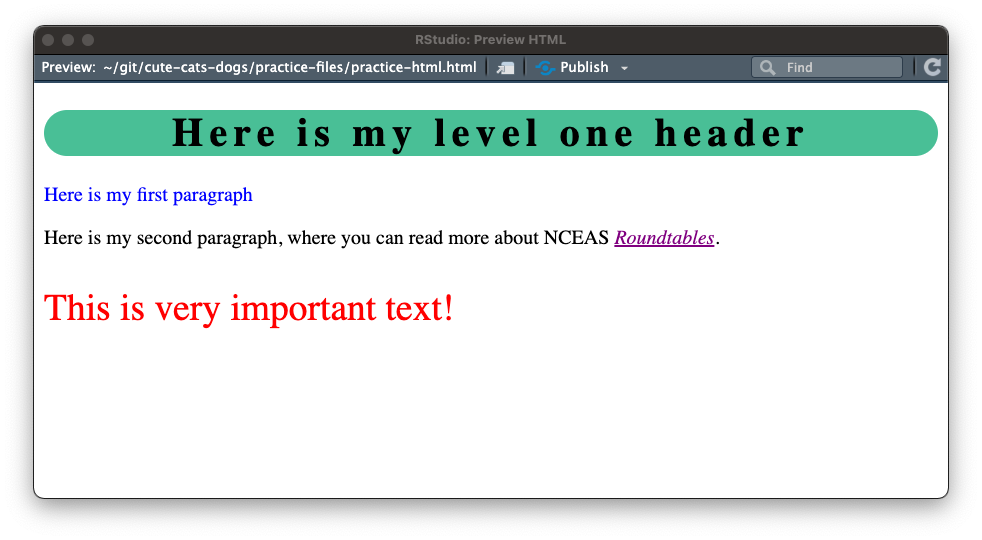
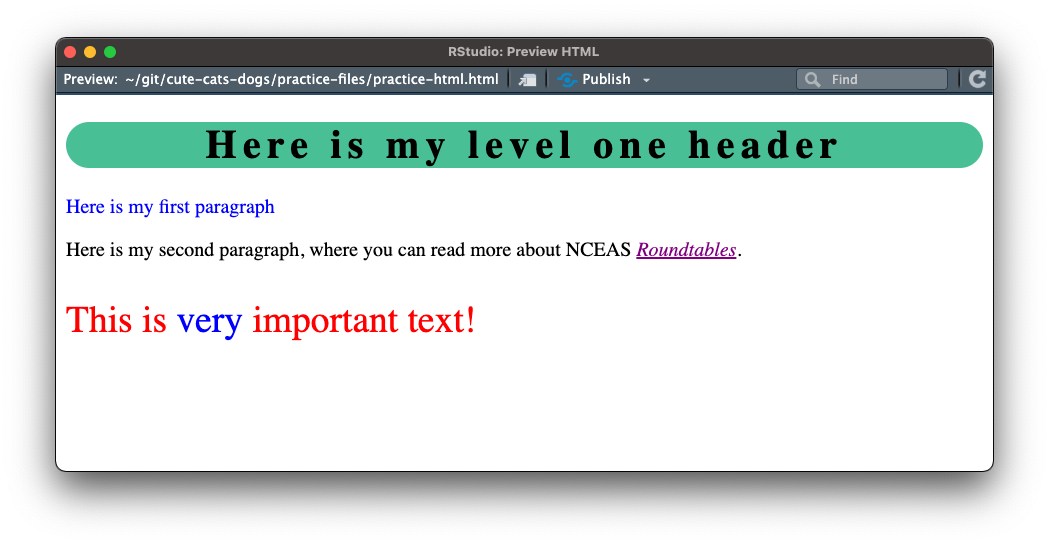
break point

Changed region(s): [[0.0305, 0.0296, 0.9776, 0.9481]]

diff --git a/index.html b/index.html
@@ -844,6 +844,7 @@
 <span id="cb3-3"><a href="#cb3-3"></a>  <span class="kw">letter-spacing</span>: <span class="dv">5</span><span class="dt">px</span><span class="op">;</span></span>
 <span id="cb3-4"><a href="#cb3-4"></a>}</span></code><button title="Copy to Clipboard" class="code-copy-button"><i class="bi"></i></button></pre></div>
 </div>
+<p><br></p>
 <p><strong>HTML</strong></p>
 <div class="cell">
 <div class="sourceCode cell-code" id="cb4"><pre class="sourceCode numberSource html number-lines code-with-copy"><code class="sourceCode html"><span id="cb4-1"><a href="#cb4-1"></a><span class="kw">&lt;h1&gt;</span>My level one header will be styled<span class="kw">&lt;/h1&gt;</span></span>
@@ -880,6 +881,7 @@
 <span id="cb5-3"><a href="#cb5-3"></a>  <span class="kw">color</span>: <span class="cn">purple</span><span class="op">;</span></span>
 <span id="cb5-4"><a href="#cb5-4"></a>}</span></code><button title="Copy to Clipboard" class="code-copy-button"><i class="bi"></i></button></pre></div>
 </div>
+<p><br></p>
 <p><strong>HTML</strong></p>
 <div class="cell">
 <div class="sourceCode cell-code" id="cb6"><pre class="sourceCode numberSource html number-lines code-with-copy"><code class="sourceCode html"><span id="cb6-1"><a href="#cb6-1"></a><span class="kw">&lt;h1&gt;</span>My level one header will be styled<span class="kw">&lt;/h1&gt;</span></span>
@@ -920,6 +922,7 @@
 <span id="cb7-3"><a href="#cb7-3"></a>  <span class="kw">font-style</span>: <span class="dv">italic</span><span class="op">;</span></span>
 <span id="cb7-4"><a href="#cb7-4"></a>}</span></code><button title="Copy to Clipboard" class="code-copy-button"><i class="bi"></i></button></pre></div>
 </div>
+<p><br></p>
 <p><strong>HTML</strong></p>
 <div class="cell">
 <div class="sourceCode cell-code" id="cb8"><pre class="sourceCode numberSource html number-lines code-with-copy"><code class="sourceCode html"><span id="cb8-1"><a href="#cb8-1"></a><span class="kw">&lt;p</span> <span class="er">class</span><span class="ot">=</span><span class="st">"blue-italicized"</span><span class="kw">&gt;</span>My first paragraph is styled<span class="kw">&lt;/p&gt;</span></span>
@@ -956,6 +959,7 @@
 <span id="cb9-3"><a href="#cb9-3"></a>  <span class="kw">font-style</span>: <span class="dv">italic</span><span class="op">;</span></span>
 <span id="cb9-4"><a href="#cb9-4"></a>}</span></code><button title="Copy to Clipboard" class="code-copy-button"><i class="bi"></i></button></pre></div>
 </div>
+<p><br></p>
 <p><strong>HTML</strong></p>
 <div class="cell">
 <div class="sourceCode cell-code" id="cb10"><pre class="sourceCode numberSource html number-lines code-with-copy"><code class="sourceCode html"><span id="cb10-1"><a href="#cb10-1"></a><span class="kw">&lt;p&gt;</span>Only the word <span class="kw">&lt;span</span> <span class="er">class</span><span class="ot">=</span><span class="st">"blue-italicized"</span><span class="kw">&gt;</span>blue<span class="kw">&lt;/span&gt;</span> is styled.<span class="kw">&lt;/p&gt;</span></span></code><button title="Copy to Clipboard" class="code-copy-button"><i class="bi"></i></button></pre></div>
@@ -976,16 +980,50 @@
 </div>
 </div>
 </section><section id="conflicting-rules" class="slide level2" data-menu-title="Conflicting Rules"><h2></h2>
-<p><span class="slide-title">CSS rules can conflict – the more specific rule “wins”</span></p>
+<p><span class="slide-title-smallest">Conflicting rules? The more specific rule wins</span></p>
 <hr>
-<p>It is common to have more than one CSS rule that points to the same element. As you build more complex stylesheets, determining which CSS rule “wins out” can get complicated. At a very basic level, the more specific CSS “wins”.</p>
-<p>In the context of today’s talk, class selectors are more specific than element selectors and will take precedence.</p>
-<p>EXAMPLE HERE</p>
+<div class="body-text">
+<p>It is common to have more than one CSS rule that points to the same element. As you build more complex stylesheets, determining which CSS rule “wins out” can get complicated. At a very basic level, the more specific CSS “wins”. In the context of today’s talk, <strong>class selectors are more specific than element selectors</strong> and will take precedence.</p>
+</div>
+<div class="columns">
+<div class="column" style="width:50%;">
+<p><strong>CSS</strong></p>
+<div class="cell">
+<div class="sourceCode cell-code" id="cb11"><pre class="sourceCode numberSource css number-lines code-with-copy"><code class="sourceCode css"><span id="cb11-1"><a href="#cb11-1"></a>h1 {</span>
+<span id="cb11-2"><a href="#cb11-2"></a>  <span class="kw">color</span>: <span class="cn">blue</span><span class="op">;</span> </span>
+<span id="cb11-3"><a href="#cb11-3"></a>  <span class="kw">font-style</span>: <span class="dv">italic</span><span class="op">;</span> </span>
+<span id="cb11-4"><a href="#cb11-4"></a>}</span>
+<span id="cb11-5"><a href="#cb11-5"></a></span>
+<span id="cb11-6"><a href="#cb11-6"></a><span class="fu">.orange-text</span> {</span>
+<span id="cb11-7"><a href="#cb11-7"></a>  <span class="kw">color</span>: <span class="cn">orange</span><span class="op">;</span></span>
+<span id="cb11-8"><a href="#cb11-8"></a>}</span></code><button title="Copy to Clipboard" class="code-copy-button"><i class="bi"></i></button></pre></div>
+</div>
+<p><br></p>
+<p><strong>HTML</strong></p>
+<div class="cell">
+<div class="sourceCode cell-code" id="cb12"><pre class="sourceCode numberSource html number-lines code-with-copy"><code class="sourceCode html"><span id="cb12-1"><a href="#cb12-1"></a><span class="kw">&lt;h1&gt;</span>This level one header will be blue<span class="kw">&lt;/h1&gt;</span></span>
+<span id="cb12-2"><a href="#cb12-2"></a><span class="kw">&lt;h1</span> <span class="er">class</span><span class="ot">=</span><span class="st">"orange-text"</span><span class="kw">&gt;</span>This one will be orange<span class="kw">&lt;/h1&gt;</span></span></code><button title="Copy to Clipboard" class="code-copy-button"><i class="bi"></i></button></pre></div>
+</div>
+</div><div class="column" style="width:50%;">
+<p><br><br></p>
+<div class="center-text">
+<p><strong>Output</strong></p>
+</div>
+<div class="cell" data-layout-align="center">
+<div class="cell-output-display">
+<div class="quarto-figure quarto-figure-center">
+<figure><p><img data-src="images/specificity.png" style="width:85.0%"></p>
+</figure>
+</div>
+</div>
+</div>
+</div>
+</div>
 </section><section id="write-css" class="slide level2" data-menu-title="Write CSS"><h2></h2>
 <p><span class="slide-title-smaller">Practice writing element &amp; class selectors</span></p>
 <hr>
 <div class="body-text center-text">
-<p>Here, we apply our <code>practice-styles.css</code> stylesheet to <code>practice-html.html</code>.</p>
+<p>Let’s write some CSS and apply our <code>practice-styles.css</code> stylesheet to <code>practice-html.html</code>.</p>
 </div>
 <div class="panel-tabset">
 <ul id="tabset-4" class="panel-tabset-tabby">
@@ -996,34 +1034,34 @@
 <div class="tab-content">
 <div id="tabset-4-1">
 <div class="cell">
-<div class="sourceCode cell-code" id="cb11"><pre class="sourceCode numberSource css number-lines code-with-copy"><code class="sourceCode css"><span id="cb11-1"><a href="#cb11-1"></a><span class="co">/* ------- element selectors ------- */</span></span>
-<span id="cb11-2"><a href="#cb11-2"></a></span>
-<span id="cb11-3"><a href="#cb11-3"></a><span class="co">/* style level one headers */</span></span>
-<span id="cb11-4"><a href="#cb11-4"></a>h1 {</span>
-<span id="cb11-5"><a href="#cb11-5"></a>  <span class="kw">background-color</span>: <span class="cn">#49bf96</span><span class="op">;</span></span>
-<span id="cb11-6"><a href="#cb11-6"></a>  <span class="kw">border-radius</span>: <span class="dv">25</span><span class="dt">px</span><span class="op">;</span></span>
-<span id="cb11-7"><a href="#cb11-7"></a>  <span class="kw">letter-spacing</span>: <span class="dv">5</span><span class="dt">px</span><span class="op">;</span></span>
-<span id="cb11-8"><a href="#cb11-8"></a>  <span class="kw">text-align</span>: <span class="dv">center</span><span class="op">;</span></span>
-<span id="cb11-9"><a href="#cb11-9"></a>}</span>
-<span id="cb11-10"><a href="#cb11-10"></a></span>
-<span id="cb11-11"><a href="#cb11-11"></a><span class="co">/* purple italicized hyperlinks */</span></span>
-<span id="cb11-12"><a href="#cb11-12"></a>a {</span>
-<span id="cb11-13"><a href="#cb11-13"></a>  <span class="kw">color</span>: <span class="cn">purple</span><span class="op">;</span></span>
-<span id="cb11-14"><a href="#cb11-14"></a>  <span class="kw">font-style</span>: <span class="dv">italic</span><span class="op">;</span></span>
-<span id="cb11-15"><a href="#cb11-15"></a>}</span>
-<span id="cb11-16"><a href="#cb11-16"></a></span>
-<span id="cb11-17"><a href="#cb11-17"></a><span class="co">/* ------- class selectors ------- */</span></span>
-<span id="cb11-18"><a href="#cb11-18"></a></span>
-<span id="cb11-19"><a href="#cb11-19"></a><span class="co">/* blue text */</span></span>
-<span id="cb11-20"><a href="#cb11-20"></a><span class="fu">.blue-text</span> {</span>
-<span id="cb11-21"><a href="#cb11-21"></a>  <span class="kw">color</span>: <span class="cn">blue</span><span class="op">;</span></span>
-<span id="cb11-22"><a href="#cb11-22"></a>}</span>
-<span id="cb11-23"><a href="#cb11-23"></a></span>
-<span id="cb11-24"><a href="#cb11-24"></a><span class="co">/* large red text */</span></span>
-<span id="cb11-25"><a href="#cb11-25"></a><span class="fu">.important-text</span>{</span>
-<span id="cb11-26"><a href="#cb11-26"></a>  <span class="kw">color</span>: <span class="cn">red</span><span class="op">;</span></span>
-<span id="cb11-27"><a href="#cb11-27"></a>  <span class="kw">font-size</span>: <span class="dv">30</span><span class="dt">px</span><span class="op">;</span></span>
-<span id="cb11-28"><a href="#cb11-28"></a>}</span></code><button title="Copy to Clipboard" class="code-copy-button"><i class="bi"></i></button></pre></div>
+<div class="sourceCode cell-code" id="cb13"><pre class="sourceCode numberSource css number-lines code-with-copy"><code class="sourceCode css"><span id="cb13-1"><a href="#cb13-1"></a><span class="co">/* ------- element selectors ------- */</span></span>
+<span id="cb13-2"><a href="#cb13-2"></a></span>
+<span id="cb13-3"><a href="#cb13-3"></a><span class="co">/* style level one headers */</span></span>
+<span id="cb13-4"><a href="#cb13-4"></a>h1 {</span>
+<span id="cb13-5"><a href="#cb13-5"></a>  <span class="kw">background-color</span>: <span class="cn">#49bf96</span><span class="op">;</span></span>
+<span id="cb13-6"><a href="#cb13-6"></a>  <span class="kw">border-radius</span>: <span class="dv">25</span><span class="dt">px</span><span class="op">;</span></span>
+<span id="cb13-7"><a href="#cb13-7"></a>  <span class="kw">letter-spacing</span>: <span class="dv">5</span><span class="dt">px</span><span class="op">;</span></span>
+<span id="cb13-8"><a href="#cb13-8"></a>  <span class="kw">text-align</span>: <span class="dv">center</span><span class="op">;</span></span>
+<span id="cb13-9"><a href="#cb13-9"></a>}</span>
+<span id="cb13-10"><a href="#cb13-10"></a></span>
+<span id="cb13-11"><a href="#cb13-11"></a><span class="co">/* purple italicized hyperlinks */</span></span>
+<span id="cb13-12"><a href="#cb13-12"></a>a {</span>
+<span id="cb13-13"><a href="#cb13-13"></a>  <span class="kw">color</span>: <span class="cn">purple</span><span class="op">;</span></span>
+<span id="cb13-14"><a href="#cb13-14"></a>  <span class="kw">font-style</span>: <span class="dv">italic</span><span class="op">;</span></span>
+<span id="cb13-15"><a href="#cb13-15"></a>}</span>
+<span id="cb13-16"><a href="#cb13-16"></a></span>
+<span id="cb13-17"><a href="#cb13-17"></a><span class="co">/* ------- class selectors ------- */</span></span>
+<span id="cb13-18"><a href="#cb13-18"></a></span>
+<span id="cb13-19"><a href="#cb13-19"></a><span class="co">/* blue text */</span></span>
+<span id="cb13-20"><a href="#cb13-20"></a><span class="fu">.blue-text</span> {</span>
+<span id="cb13-21"><a href="#cb13-21"></a>  <span class="kw">color</span>: <span class="cn">blue</span><span class="op">;</span></span>
+<span id="cb13-22"><a href="#cb13-22"></a>}</span>
+<span id="cb13-23"><a href="#cb13-23"></a></span>
+<span id="cb13-24"><a href="#cb13-24"></a><span class="co">/* large red text */</span></span>
+<span id="cb13-25"><a href="#cb13-25"></a><span class="fu">.important-text</span>{</span>
+<span id="cb13-26"><a href="#cb13-26"></a>  <span class="kw">color</span>: <span class="cn">red</span><span class="op">;</span></span>
+<span id="cb13-27"><a href="#cb13-27"></a>  <span class="kw">font-size</span>: <span class="dv">30</span><span class="dt">px</span><span class="op">;</span></span>
+<span id="cb13-28"><a href="#cb13-28"></a>}</span></code><button title="Copy to Clipboard" class="code-copy-button"><i class="bi"></i></button></pre></div>
 </div>
 </div>
 <div id="tabset-4-2">
@@ -1032,20 +1070,20 @@
 <p><code>&lt;html-tag class="class-selector"&gt;Content&lt;/html-tag&gt;</code></p>
 </div>
 <div class="cell">
-<div class="sourceCode cell-code" id="cb12" data-code-line-numbers="5 | 10-12"><pre class="sourceCode numberSource html number-lines code-with-copy"><code class="sourceCode html"><span id="cb12-1"><a href="#cb12-1"></a><span class="dt">&lt;!DOCTYPE </span>html<span class="dt">&gt;</span> <span class="co">&lt;!-- All HTML docs start with a doc type declaration--&gt;</span></span>
-<span id="cb12-2"><a href="#cb12-2"></a><span class="kw">&lt;html&gt;</span> <span class="co">&lt;!-- This tag represents the root of the HTML doc --&gt;</span></span>
-<span id="cb12-3"><a href="#cb12-3"></a><span class="kw">&lt;head&gt;</span></span>
-<span id="cb12-4"><a href="#cb12-4"></a> <span class="co">&lt;!-- Write any metadata about the HTML doc here (inluding the link to an external CSS file) --&gt;</span></span>
-<span id="cb12-5"><a href="#cb12-5"></a> <span class="kw">&lt;link</span> <span class="er">rel</span><span class="ot">=</span><span class="st">"stylesheet"</span> <span class="er">href</span><span class="ot">=</span><span class="st">"practice-styles-KEY.css"</span><span class="kw">&gt;</span></span>
-<span id="cb12-6"><a href="#cb12-6"></a><span class="kw">&lt;/head&gt;</span></span>
-<span id="cb12-7"><a href="#cb12-7"></a><span class="kw">&lt;body&gt;</span> </span>
-<span id="cb12-8"><a href="#cb12-8"></a>  <span class="co">&lt;!-- Write all the contents of the HTML doc here --&gt;</span></span>
-<span id="cb12-9"><a href="#cb12-9"></a>  <span class="kw">&lt;h1&gt;</span>Here is my level one header<span class="kw">&lt;/h1&gt;</span></span>
-<span id="cb12-10"><a href="#cb12-10"></a>  <span class="kw">&lt;p</span> <span class="er">class</span><span class="ot">=</span><span class="st">"blue-text"</span><span class="kw">&gt;</span>Here is my first paragraph<span class="kw">&lt;/p&gt;</span></span>
-<span id="cb12-11"><a href="#cb12-11"></a>  <span class="kw">&lt;p&gt;</span>Here is my second paragraph, where you can read more about NCEAS <span class="kw">&lt;a</span> <span class="er">href</span><span class="ot">=</span><span class="st">"https://www.nceas.ucsb.edu/roundtable"</span><span class="kw">&gt;</span>Roundtables<span class="kw">&lt;/a&gt;</span>.<span class="kw">&lt;/p&gt;</span></span>
-<span id="cb12-12"><a href="#cb12-12"></a>  <span class="kw">&lt;p</span> <span class="er">class</span><span class="ot">=</span><span class="st">"important-text"</span><span class="kw">&gt;</span>This is very important text!<span class="kw">&lt;/p&gt;</span></span>
-<span id="cb12-13"><a href="#cb12-13"></a><span class="kw">&lt;/body&gt;</span></span>
-<span id="cb12-14"><a href="#cb12-14"></a><span class="kw">&lt;/html&gt;</span></span></code><button title="Copy to Clipboard" class="code-copy-button"><i class="bi"></i></button></pre></div>
+<div class="sourceCode cell-code" id="cb14" data-code-line-numbers="5 | 10-12"><pre class="sourceCode numberSource html number-lines code-with-copy"><code class="sourceCode html"><span id="cb14-1"><a href="#cb14-1"></a><span class="dt">&lt;!DOCTYPE </span>html<span class="dt">&gt;</span> <span class="co">&lt;!-- All HTML docs start with a doc type declaration--&gt;</span></span>
+<span id="cb14-2"><a href="#cb14-2"></a><span class="kw">&lt;html&gt;</span> <span class="co">&lt;!-- This tag represents the root of the HTML doc --&gt;</span></span>
+<span id="cb14-3"><a href="#cb14-3"></a><span class="kw">&lt;head&gt;</span></span>
+<span id="cb14-4"><a href="#cb14-4"></a> <span class="co">&lt;!-- Write any metadata about the HTML doc here (inluding the link to an external CSS file) --&gt;</span></span>
+<span id="cb14-5"><a href="#cb14-5"></a> <span class="kw">&lt;link</span> <span class="er">rel</span><span class="ot">=</span><span class="st">"stylesheet"</span> <span class="er">href</span><span class="ot">=</span><span class="st">"practice-styles-KEY.css"</span><span class="kw">&gt;</span></span>
+<span id="cb14-6"><a href="#cb14-6"></a><span class="kw">&lt;/head&gt;</span></span>
+<span id="cb14-7"><a href="#cb14-7"></a><span class="kw">&lt;body&gt;</span> </span>
+<span id="cb14-8"><a href="#cb14-8"></a>  <span class="co">&lt;!-- Write all the contents of the HTML doc here --&gt;</span></span>
+<span id="cb14-9"><a href="#cb14-9"></a>  <span class="kw">&lt;h1&gt;</span>Here is my level one header<span class="kw">&lt;/h1&gt;</span></span>
+<span id="cb14-10"><a href="#cb14-10"></a>  <span class="kw">&lt;p</span> <span class="er">class</span><span class="ot">=</span><span class="st">"blue-text"</span><span class="kw">&gt;</span>Here is my first paragraph<span class="kw">&lt;/p&gt;</span></span>
+<span id="cb14-11"><a href="#cb14-11"></a>  <span class="kw">&lt;p&gt;</span>Here is my second paragraph, where you can read more about NCEAS <span class="kw">&lt;a</span> <span class="er">href</span><span class="ot">=</span><span class="st">"https://www.nceas.ucsb.edu/roundtable"</span><span class="kw">&gt;</span>Roundtables<span class="kw">&lt;/a&gt;</span>.<span class="kw">&lt;/p&gt;</span></span>
+<span id="cb14-12"><a href="#cb14-12"></a>  <span class="kw">&lt;p</span> <span class="er">class</span><span class="ot">=</span><span class="st">"important-text"</span><span class="kw">&gt;</span>This is <span class="kw">&lt;span</span> <span class="er">class</span><span class="ot">=</span><span class="st">"blue-text"</span><span class="kw">&gt;</span>very<span class="kw">&lt;/span&gt;</span> important text!<span class="kw">&lt;/p&gt;</span></span>
+<span id="cb14-13"><a href="#cb14-13"></a><span class="kw">&lt;/body&gt;</span></span>
+<span id="cb14-14"><a href="#cb14-14"></a><span class="kw">&lt;/html&gt;</span></span></code><button title="Copy to Clipboard" class="code-copy-button"><i class="bi"></i></button></pre></div>
 </div>
 </div>
 <div id="tabset-4-3">
@@ -1075,67 +1113,67 @@
 <p><strong>Note</strong> the required <code>/*-- scss:rules --*/</code> section header, which has been added at the top of the file</p>
 </div>
 <div class="cell">
-<div class="sourceCode cell-code" id="cb13"><pre class="sourceCode numberSource css number-lines code-with-copy"><code class="sourceCode css"><span id="cb13-1"><a href="#cb13-1"></a><span class="co">/*-- scss:rules --*/</span></span>
-<span id="cb13-2"><a href="#cb13-2"></a></span>
-<span id="cb13-3"><a href="#cb13-3"></a><span class="co">/* ------- element selectors ------- */</span></span>
-<span id="cb13-4"><a href="#cb13-4"></a></span>
-<span id="cb13-5"><a href="#cb13-5"></a><span class="co">/* style level one headers */</span></span>
-<span id="cb13-6"><a href="#cb13-6"></a>h1 {</span>
-<span id="cb13-7"><a href="#cb13-7"></a>  <span class="kw">background-color</span>: <span class="cn">#49bf96</span><span class="op">;</span></span>
-<span id="cb13-8"><a href="#cb13-8"></a>  <span class="kw">border-radius</span>: <span class="dv">25</span><span class="dt">px</span><span class="op">;</span></span>
-<span id="cb13-9"><a href="#cb13-9"></a>  <span class="kw">letter-spacing</span>: <span class="dv">5</span><span class="dt">px</span><span class="op">;</span></span>
-<span id="cb13-10"><a href="#cb13-10"></a>  <span class="kw">text-align</span>: <span class="dv">center</span><span class="op">;</span></span>
-<span id="cb13-11"><a href="#cb13-11"></a>}</span>
-<span id="cb13-12"><a href="#cb13-12"></a></span>
-<span id="cb13-13"><a href="#cb13-13"></a><span class="co">/* purple italicized hyperlinks */</span></span>
-<span id="cb13-14"><a href="#cb13-14"></a>a {</span>
-<span id="cb13-15"><a href="#cb13-15"></a>  <span class="kw">color</span>: <span class="cn">purple</span><span class="op">;</span></span>
-<span id="cb13-16"><a href="#cb13-16"></a>  <span class="kw">font-style</span>: <span class="dv">italic</span><span class="op">;</span></span>
-<span id="cb13-17"><a href="#cb13-17"></a>}</span>
-<span id="cb13-18"><a href="#cb13-18"></a></span>
-<span id="cb13-19"><a href="#cb13-19"></a><span class="co">/* ------- class selectors ------- */</span></span>
-<span id="cb13-20"><a href="#cb13-20"></a></span>
-<span id="cb13-21"><a href="#cb13-21"></a><span class="co">/* blue text */</span></span>
-<span id="cb13-22"><a href="#cb13-22"></a><span class="fu">.blue-text</span> {</span>
-<span id="cb13-23"><a href="#cb13-23"></a>  <span class="kw">color</span>: <span class="cn">blue</span><span class="op">;</span></span>
-<span id="cb13-24"><a href="#cb13-24"></a>}</span>
-<span id="cb13-25"><a href="#cb13-25"></a></span>
-<span id="cb13-26"><a href="#cb13-26"></a><span class="co">/* large red text */</span></span>
-<span id="cb13-27"><a href="#cb13-27"></a><span class="fu">.important-text</span>{</span>
-<span id="cb13-28"><a href="#cb13-28"></a>  <span class="kw">color</span>: <span class="cn">red</span><span class="op">;</span></span>
-<span id="cb13-29"><a href="#cb13-29"></a>  <span class="kw">font-size</span>: <span class="dv">30</span><span class="dt">px</span><span class="op">;</span></span>
-<span id="cb13-30"><a href="#cb13-30"></a>}</span></code><button title="Copy to Clipboard" class="code-copy-button"><i class="bi"></i></button></pre></div>
+<div class="sourceCode cell-code" id="cb15"><pre class="sourceCode numberSource css number-lines code-with-copy"><code class="sourceCode css"><span id="cb15-1"><a href="#cb15-1"></a><span class="co">/*-- scss:rules --*/</span></span>
+<span id="cb15-2"><a href="#cb15-2"></a></span>
+<span id="cb15-3"><a href="#cb15-3"></a><span class="co">/* ------- element selectors ------- */</span></span>
+<span id="cb15-4"><a href="#cb15-4"></a></span>
+<span id="cb15-5"><a href="#cb15-5"></a><span class="co">/* style level one headers */</span></span>
+<span id="cb15-6"><a href="#cb15-6"></a>h1 {</span>
+<span id="cb15-7"><a href="#cb15-7"></a>  <span class="kw">background-color</span>: <span class="cn">#49bf96</span><span class="op">;</span></span>
+<span id="cb15-8"><a href="#cb15-8"></a>  <span class="kw">border-radius</span>: <span class="dv">25</span><span class="dt">px</span><span class="op">;</span></span>
+<span id="cb15-9"><a href="#cb15-9"></a>  <span class="kw">letter-spacing</span>: <span class="dv">5</span><span class="dt">px</span><span class="op">;</span></span>
+<span id="cb15-10"><a href="#cb15-10"></a>  <span class="kw">text-align</span>: <span class="dv">center</span><span class="op">;</span></span>
+<span id="cb15-11"><a href="#cb15-11"></a>}</span>
+<span id="cb15-12"><a href="#cb15-12"></a></span>
+<span id="cb15-13"><a href="#cb15-13"></a><span class="co">/* purple italicized hyperlinks */</span></span>
+<span id="cb15-14"><a href="#cb15-14"></a>a {</span>
+<span id="cb15-15"><a href="#cb15-15"></a>  <span class="kw">color</span>: <span class="cn">purple</span><span class="op">;</span></span>
+<span id="cb15-16"><a href="#cb15-16"></a>  <span class="kw">font-style</span>: <span class="dv">italic</span><span class="op">;</span></span>
+<span id="cb15-17"><a href="#cb15-17"></a>}</span>
+<span id="cb15-18"><a href="#cb15-18"></a></span>
+<span id="cb15-19"><a href="#cb15-19"></a><span class="co">/* ------- class selectors ------- */</span></span>
+<span id="cb15-20"><a href="#cb15-20"></a></span>
+<span id="cb15-21"><a href="#cb15-21"></a><span class="co">/* blue text */</span></span>
+<span id="cb15-22"><a href="#cb15-22"></a><span class="fu">.blue-text</span> {</span>
+<span id="cb15-23"><a href="#cb15-23"></a>  <span class="kw">color</span>: <span class="cn">blue</span><span class="op">;</span></span>
+<span id="cb15-24"><a href="#cb15-24"></a>}</span>
+<span id="cb15-25"><a href="#cb15-25"></a></span>
+<span id="cb15-26"><a href="#cb15-26"></a><span class="co">/* large red text */</span></span>
+<span id="cb15-27"><a href="#cb15-27"></a><span class="fu">.important-text</span>{</span>
+<span id="cb15-28"><a href="#cb15-28"></a>  <span class="kw">color</span>: <span class="cn">red</span><span class="op">;</span></span>
+<span id="cb15-29"><a href="#cb15-29"></a>  <span class="kw">font-size</span>: <span class="dv">30</span><span class="dt">px</span><span class="op">;</span></span>
+<span id="cb15-30"><a href="#cb15-30"></a>}</span></code><button title="Copy to Clipboard" class="code-copy-button"><i class="bi"></i></button></pre></div>
 </div>
 </div>
 <div id="tabset-5-2">
 <div class="body-text">
 <p>Below, we <strong>(a)</strong> call our stylesheet in the YAML metadata header using the <code>theme</code> option (line 2), and <strong>(b)</strong> use our class selectors to apply targeted styling (lines 7 &amp; 11).</p>
 </div>
-<div class="sourceCode" id="cb14"><pre class="sourceCode numberSource md number-lines code-with-copy"><code class="sourceCode markdown"><span id="cb14-1"><a href="#cb14-1"></a><span class="co">---</span></span>
-<span id="cb14-2"><a href="#cb14-2"></a><span class="an">theme:</span><span class="co"> practice-styles.css</span></span>
-<span id="cb14-3"><a href="#cb14-3"></a><span class="co">---</span></span>
-<span id="cb14-4"><a href="#cb14-4"></a></span>
-<span id="cb14-5"><a href="#cb14-5"></a><span class="fu"># Here is my level one header</span></span>
-<span id="cb14-6"><a href="#cb14-6"></a></span>
-<span id="cb14-7"><a href="#cb14-7"></a><span class="kw">&lt;p</span> <span class="er">class</span><span class="ot">=</span><span class="st">"blue-text"</span><span class="kw">&gt;</span>Here is my first paragraph<span class="kw">&lt;/p&gt;</span></span>
-<span id="cb14-8"><a href="#cb14-8"></a></span>
-<span id="cb14-9"><a href="#cb14-9"></a>Here is my second paragraph, where you can read more about NCEAS <span class="co">[</span><span class="ot">Roundtables</span><span class="co">](https://www.nceas.ucsb.edu/roundtable)</span>.</span>
-<span id="cb14-10"><a href="#cb14-10"></a></span>
-<span id="cb14-11"><a href="#cb14-11"></a><span class="kw">&lt;p</span> <span class="er">class</span><span class="ot">=</span><span class="st">"important-text"</span><span class="kw">&gt;</span>This is very important text!<span class="kw">&lt;/p&gt;</span></span></code><button title="Copy to Clipboard" class="code-copy-button"><i class="bi"></i></button></pre></div>
+<div class="sourceCode" id="cb16"><pre class="sourceCode numberSource md number-lines code-with-copy"><code class="sourceCode markdown"><span id="cb16-1"><a href="#cb16-1"></a><span class="co">---</span></span>
+<span id="cb16-2"><a href="#cb16-2"></a><span class="an">theme:</span><span class="co"> practice-styles.css</span></span>
+<span id="cb16-3"><a href="#cb16-3"></a><span class="co">---</span></span>
+<span id="cb16-4"><a href="#cb16-4"></a></span>
+<span id="cb16-5"><a href="#cb16-5"></a><span class="fu"># Here is my level one header</span></span>
+<span id="cb16-6"><a href="#cb16-6"></a></span>
+<span id="cb16-7"><a href="#cb16-7"></a><span class="kw">&lt;p</span> <span class="er">class</span><span class="ot">=</span><span class="st">"blue-text"</span><span class="kw">&gt;</span>Here is my first paragraph<span class="kw">&lt;/p&gt;</span></span>
+<span id="cb16-8"><a href="#cb16-8"></a></span>
+<span id="cb16-9"><a href="#cb16-9"></a>Here is my second paragraph, where you can read more about NCEAS <span class="co">[</span><span class="ot">Roundtables</span><span class="co">](https://www.nceas.ucsb.edu/roundtable)</span>.</span>
+<span id="cb16-10"><a href="#cb16-10"></a></span>
+<span id="cb16-11"><a href="#cb16-11"></a><span class="kw">&lt;p</span> <span class="er">class</span><span class="ot">=</span><span class="st">"important-text"</span><span class="kw">&gt;</span>This is <span class="kw">&lt;span</span> <span class="er">class</span><span class="ot">=</span><span class="st">"blue-text"</span><span class="kw">&gt;</span>very<span class="kw">&lt;/span&gt;</span> important text!<span class="kw">&lt;/p&gt;</span></span></code><button title="Copy to Clipboard" class="code-copy-button"><i class="bi"></i></button></pre></div>
 <div class="body-text">
 <p><strong>Note:</strong> Quarto also provides <a href="https://quarto.org/docs/authoring/markdown-basics.html#divs-and-spans">its own syntax</a> for applying classes to elements. For example:</p>
 </div>
-<div class="sourceCode" id="cb15"><pre class="sourceCode numberSource md number-lines code-with-copy"><code class="sourceCode markdown"><span id="cb15-1"><a href="#cb15-1"></a><span class="co">---</span></span>
-<span id="cb15-2"><a href="#cb15-2"></a><span class="an">theme:</span><span class="co"> practice-styles.css</span></span>
-<span id="cb15-3"><a href="#cb15-3"></a><span class="co">---</span></span>
-<span id="cb15-4"><a href="#cb15-4"></a></span>
-<span id="cb15-5"><a href="#cb15-5"></a><span class="fu"># Here is my level one header</span></span>
-<span id="cb15-6"><a href="#cb15-6"></a></span>
-<span id="cb15-7"><a href="#cb15-7"></a><span class="co">[</span><span class="ot">Here is my first paragraph</span><span class="co">]</span>{.blue-text}</span>
-<span id="cb15-8"><a href="#cb15-8"></a></span>
-<span id="cb15-9"><a href="#cb15-9"></a>Here is my second paragraph, where you can read more about NCEAS <span class="co">[</span><span class="ot">Roundtables</span><span class="co">](https://www.nceas.ucsb.edu/roundtable)</span>.</span>
-<span id="cb15-10"><a href="#cb15-10"></a></span>
-<span id="cb15-11"><a href="#cb15-11"></a><span class="co">[</span><span class="ot">This is very important text!</span><span class="co">]</span>{.important-text}</span></code><button title="Copy to Clipboard" class="code-copy-button"><i class="bi"></i></button></pre></div>
+<div class="sourceCode" id="cb17"><pre class="sourceCode numberSource md number-lines code-with-copy"><code class="sourceCode markdown"><span id="cb17-1"><a href="#cb17-1"></a><span class="co">---</span></span>
+<span id="cb17-2"><a href="#cb17-2"></a><span class="an">theme:</span><span class="co"> practice-styles.css</span></span>
+<span id="cb17-3"><a href="#cb17-3"></a><span class="co">---</span></span>
+<span id="cb17-4"><a href="#cb17-4"></a></span>
+<span id="cb17-5"><a href="#cb17-5"></a><span class="fu"># Here is my level one header</span></span>
+<span id="cb17-6"><a href="#cb17-6"></a></span>
+<span id="cb17-7"><a href="#cb17-7"></a><span class="co">[</span><span class="ot">Here is my first paragraph</span><span class="co">]</span>{.blue-text}</span>
+<span id="cb17-8"><a href="#cb17-8"></a></span>
+<span id="cb17-9"><a href="#cb17-9"></a>Here is my second paragraph, where you can read more about NCEAS <span class="co">[</span><span class="ot">Roundtables</span><span class="co">](https://www.nceas.ucsb.edu/roundtable)</span>.</span>
+<span id="cb17-10"><a href="#cb17-10"></a></span>
+<span id="cb17-11"><a href="#cb17-11"></a><span class="co">[</span><span class="ot">This is [very]{.blue-text} important text!</span><span class="co">]</span>{.important-text}</span></code><button title="Copy to Clipboard" class="code-copy-button"><i class="bi"></i></button></pre></div>
 </div>
 <div id="tabset-5-3">
 <div class="cell" data-layout-align="center">
@@ -1149,8 +1187,24 @@
 </div>
 </div>
 </div>
+</section><section id="check-in" class="slide level2" data-menu-title="How are we feeling?"><h2></h2>
+<p><span class="slide-title-smaller">How are we all feeling?</span></p>
+<hr>
+<div class="fragment">
+<div class="body-text center-text">
+<p>To me, writing a little CSS always feels a bit magical <i class="fa-solid fa-wand-sparkles" aria-label="wand-sparkles"></i></p>
+</div>
+<div class="cell" data-layout-align="center">
+<div class="cell-output-display">
+<div class="quarto-figure quarto-figure-center">
+<figure><p><img data-src="images/magic.gif" style="width:65.0%"></p>
+</figure>
+</div>
+</div>
+</div>
 <div class="footer footer-default">
 
+</div>
 </div>
 </section>
 </div>
